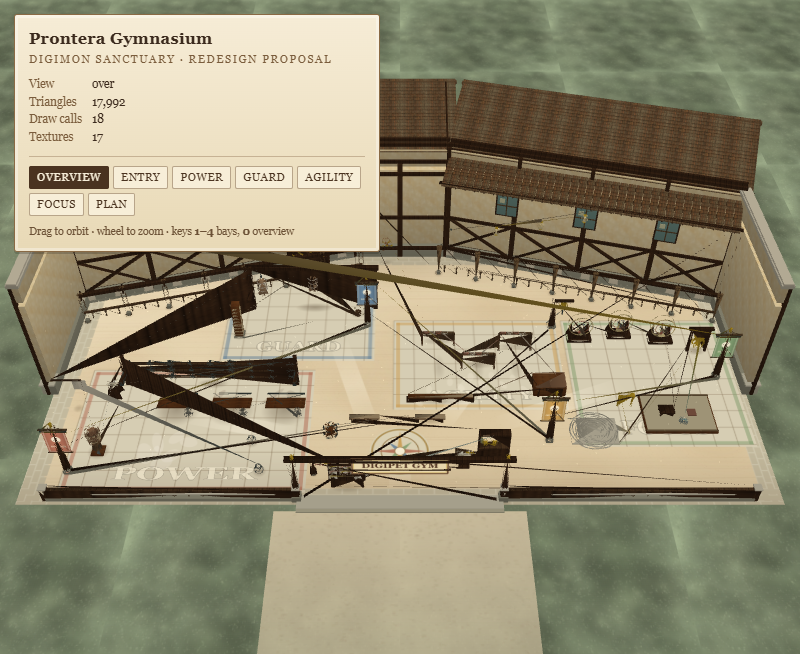
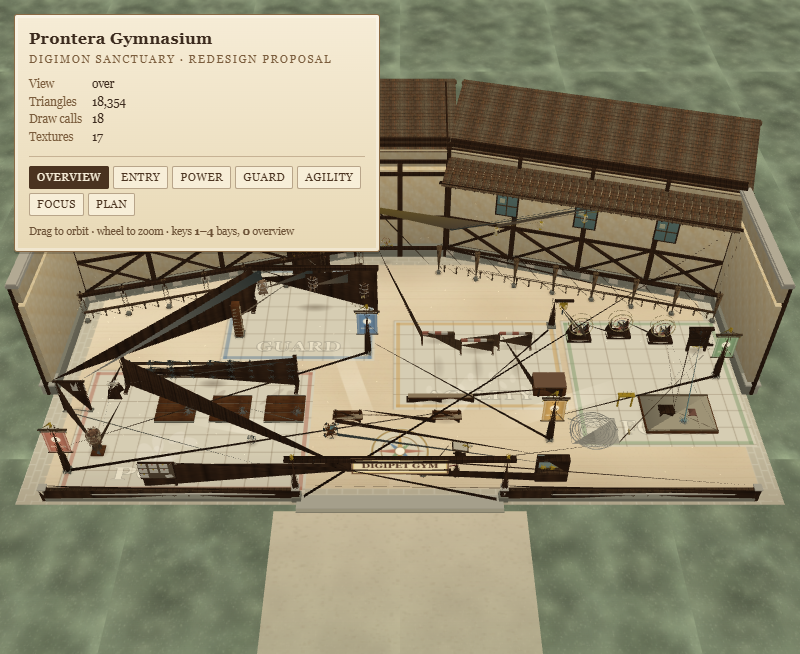
docs(proposal): gym redesign audit pass - clear station lines, hang props
Third geometry pass over the art study. Moves a hurdle and the guard
banner off the station rows, moves the sand bucket behind the gantry,
rebuilds the gantry knee braces and the plate-rack feet, hangs the
bronze bell from a crown rod with a slung striker log, and seats the
kettlebells and sand spill on the court plane.

Adds ?audit=1, which records every part's world AABB and source frame.
Result: 1,087 parts, nothing below the court, no loose prop outside the
envelope, every station clear, ridge heights 13.2 m, all remaining
"floating" sets carried by beamBetween hardware.

Refreshes the ten screenshots and updates the README budget to
18,354 triangles / 18 draw calls / 17 textures.

diff --git a/docs/proposals/gym-redesign/gym-redesign.js b/docs/proposals/gym-redesign/gym-redesign.js
@@ -97,6 +97,10 @@ function boxGeo(w,h,d,tile){
   return g;
 }
 const _m4=new T.Matrix4(),_q=new T.Quaternion(),_e=new T.Euler(),_v=new T.Vector3(),_s=new T.Vector3();
+/* ?audit=1 records every part's world bounding box so the geometry can be
+   checked for floating props, coplanar sheets and out-of-court volume. */
+const AUDIT=new URLSearchParams(location.search).get('audit')==='1';
+const PARTS=[];
 function put(geo,matName,colour,x,y,z,rot,scale){
   const g=tint(geo,colour);
   if(rot)_e.set(rot[0]||0,rot[1]||0,rot[2]||0,rot[3]||'XYZ');else _e.set(0,0,0);
@@ -104,6 +108,12 @@ function put(geo,matName,colour,x,y,z,rot,scale){
   if(typeof scale==='number')_s.set(scale,scale,scale);else if(scale)_s.set(scale[0],scale[1],scale[2]);else _s.set(1,1,1);
   _m4.compose(_v.set(x,y,z),_q,_s);
   g.applyMatrix4(_m4);
+  if(AUDIT){
+    g.computeBoundingBox();
+    const b=g.boundingBox;
+    const st=(new Error()).stack.split('\n').slice(2,4).map(s=>s.trim().replace(/^at /,'')).join(' <- ');
+    PARTS.push({m:matName,c:colour,min:[b.min.x,b.min.y,b.min.z],max:[b.max.x,b.max.y,b.max.z],at:st});
+  }
   let b=batches.get(matName);
   if(!b){b=[];batches.set(matName,b)}
   b.push(g);
@@ -522,18 +532,20 @@ function buildGate(){
 const IRON=0x3d4540,BRASS=0xc9a227,ROPE=0xb8a27a,CANVAS=0xe6dcc6,LEATHER=0x8a6547,STRAW=0xc9b071;
 
 function sleeperPlatform(x,z,w=2.9,d=2.6){
-  for(let i=0;i<3;i++)box(w,.10,.30,'board',0x9c7448,x,.05+i*.11,z-d/2+.35+i*.42);
-  box(w-.1,.06,.10,'flat',IRON,x,.34,z-d/2);
+  // stone plinth, then three board sleepers with reveals, all resting on it
+  box(w,.12,d,'flat',0x8d8974,x,.06,z);
+  for(let i=0;i<3;i++)box(w,.10,.72,'board',0x9c7448,x,.17,z-d/2+.46+i*.84);
+  box(w-.1,.06,.10,'flat',IRON,x,.13,z-d/2+.05);
   shadow(x,z,w*.62,d*.62,.34);
-  // a stone weight on the platform edge
-  lathe([[0,0],[.30,0],[.34,.16],[.26,.34],[.26,.46],[.12,.5],[0,.5]],10,'flat',0x7d7a6c,x+w*.34,.10,z+d*.22);
-  lathe([[0,0],[.20,0],[.22,.10],[.16,.20],[.16,.26],[0,.28]],8,'flat',0x6b6759,x+w*.34,.60,z+d*.22);
+  // a stone weight on the platform edge, resting on the boards
+  lathe([[0,0],[.30,0],[.34,.16],[.26,.34],[.26,.46],[.12,.5],[0,.5]],10,'flat',0x7d7a6c,x+w*.34,.22,z+d*.22);
+  lathe([[0,0],[.20,0],[.22,.10],[.16,.20],[.16,.26],[0,.28]],8,'flat',0x6b6759,x+w*.34,.72,z+d*.22);
 }
 function weightRack(x1,x2,z){
   for(const x of [x1,x2]){
     box(.30,3.0,.30,'wood',WALNUT,x,1.5,z);
-    box(.30,.24,1.5,'wood',WALNUT,x,1.5,z+.6);
-    box(.26,.26,1.5,'flat',IRON,x,1.35,z+.6);
+    box(.30,.16,1.3,'wood',WALNUT,x,.08,z+.45);       // floor foot
+    beamBetween([x,1.35,z],[x,.20,z+1.0],.06,'wood',WALNUT); // diagonal brace
   }
   for(const y of [.85,1.55,2.25]){
     box(x2-x1,.14,.16,'wood',OAK,(x1+x2)/2,y,z+.02);
@@ -557,31 +569,33 @@ function strikeDummy(x,z){
   // spring
   for(let i=0;i<4;i++)put(new T.TorusGeometry(.16,.035,4,10),'flat',IRON,x,.22+i*.10,z,[Math.PI/2,0,0]);
   cyl(.30,.34,.55,10,'wood',ASH,x,.70,z);
-  lathe([[0,0],[.44,0],[.52,.18],[.52,1.05],[.44,1.30],[.26,1.42],[0,1.42]],12,'flat',LEATHER,x,1.15,z);
+  lathe([[0,0],[.44,0],[.52,.18],[.52,1.05],[.44,1.30],[.26,1.42],[0,1.42]],12,'flat',LEATHER,x,.97,z);
   for(const y of [1.45,1.75,2.05])put(new T.TorusGeometry(.44,.045,4,12),'flat',ROPE,x,y,z,[Math.PI/2,0,0]);
   box(.62,.34,.50,'flat',0x6f4f37,x,2.02,z);
   shadow(x,z,.8,.8,.36);
 }
 function kettlebell(x,z,tilt){
-  put(new T.SphereGeometry(.34,12,8),'flat',0x6d7268,x,.30,z);
-  put(new T.TorusGeometry(.20,.05,5,10),'flat',IRON,x,.62,z,[tilt||0,0,.2]);
+  put(new T.SphereGeometry(.34,12,8),'flat',0x6d7268,x,.34,z);
+  put(new T.TorusGeometry(.20,.05,5,10),'flat',IRON,x,.66,z,[tilt||0,0,.2]);
   shadow(x,z,.5,.5,.28);
 }
 function sandbagGantry(x1,x2,z){
   for(const x of [x1,x2]){
     box(.34,4.35,.34,'wood',WALNUT,x,2.17,z);
-    box(.34,.26,1.7,'wood',WALNUT,x,2.17,z+.8);
-    beamBetween([x-.1,4.15,z],[x-.1,3.3,z+.95],.09,'wood',WALNUT);
+    box(.34,.16,1.5,'wood',WALNUT,x,.08,z);           // ground skid
+    // knee brace in the x-y plane, from the post up into the beam
+    const inward=x===x1?.62:-.62;
+    beamBetween([x+inward,3.28,z],[x,4.12,z],.09,'wood',WALNUT);
   }
   box(x2-x1+.6,.30,.34,'wood',WALNUT,(x1+x2)/2,4.30,z);
   shadow((x1+x2)/2,z,1.6,.55,.32);
   const bags=[[x1+.9,1.55],[(x1+x2)/2,1.95],[x2-.9,1.35]];
   for(const [x,base] of bags){
-    const y=4.20;
-    // chain + swivel
-    for(let i=0;i<5;i++)put(new T.TorusGeometry(.055,.016,3,6),'flat',IRON,x,y-.05-i*.13,z,[0,0,Math.PI/2]);
-    box(.14,.14,.14,'flat',IRON,x,y-.80,z);
-    const h=1.55,r=.40;
+    const beamY=4.20,h=1.55,r=.40,top=base+h;
+    // continuous chain from the beam down to the swivel, with links threaded on it
+    beamBetween([x,beamY,z],[x,top,z],.018,'flat',IRON);
+    for(let y=beamY-.08;y>top+.10;y-=.13)put(new T.TorusGeometry(.055,.016,3,6),'flat',IRON,x,y,z,[0,0,Math.PI/2]);
+    box(.14,.14,.14,'flat',IRON,x,top+.07,z);
     lathe([[0,0],[r,0],[r*.94,h*.16],[r*1.02,h*.5],[r*.9,h*.86],[r*.55,h],[0,h]],12,'flat',0x9b7a58,x,base,z);
     for(const yy of [base+.55,base+.95,base+1.35])put(new T.TorusGeometry(r*.99,.028,4,12),'flat',0xe0d3bd,x,yy,z,[Math.PI/2,0,0]);
     // patches
@@ -589,9 +603,9 @@ function sandbagGantry(x1,x2,z){
     if(base<1.5)box(.30,.30,.06,'flat',0xc9b071,x-.10,base+.12,z+.34,[0,0,.1]);
   }
   // sand spill + bucket under the patched bag
-  for(let i=0;i<9;i++){const a=i/9*Math.PI*2;put(new T.SphereGeometry(.10,5,4),'flat',0xcdb98c,x2-1.4+Math.cos(a)*.6,.03,z+.55+Math.sin(a)*.5)}
-  cyl(.26,.22,.42,10,'wood',OAK,x2-1.4,.21,z+.9);
-  shadow(x2-1.4,z+.7,.7,.6,.24);
+  for(let i=0;i<9;i++){const a=i/9*Math.PI*2;put(new T.SphereGeometry(.10,5,4),'flat',0xcdb98c,x2-1.4+Math.cos(a)*.6,.10,z-.55+Math.sin(a)*.5)}
+  cyl(.26,.22,.42,10,'wood',OAK,x2-1.4,.21,z-.9);
+  shadow(x2-1.4,z-.7,.7,.6,.24);
 }
 function guardPost(x,z){
   box(.8,.16,.8,'flat',0x8d8974,x,.08,z);
@@ -772,9 +786,15 @@ function barrel(x,z){
   put(new T.SphereGeometry(.09,8,6),'flat',0x8d9a92,x+.58,1.28,z+.06,[0,0,0]);
 }
 function bench(x,z,w){
+  // seat on four legs, with a slatted back against the fence
   box(w,.10,.42,'board',0x9c7448,x,.46,z);
-  box(w,.08,.44,'flat',0xb59b74,x,.50,z);
-  for(const dx of [-w/2+.22,w/2-.22]){box(.14,.46,.36,'wood',WALNUT,x+dx,.23,z)}
+  box(w,.06,.44,'flat',0xb59b74,x,.54,z);
+  for(const dx of [-w/2+.22,w/2-.22]){
+    box(.14,.46,.36,'wood',WALNUT,x+dx,.23,z);
+    box(.12,.62,.12,'wood',WALNUT,x+dx,.71,z-.18);
+  }
+  box(w-.1,.16,.06,'board',0x9c7448,x,.86,z-.18);
+  box(w-.1,.12,.06,'board',0x9c7448,x,.66,z-.18);
   shadow(x,z,w*.5,.35,.22);
 }
 function broom(x,z,tilt){
@@ -799,9 +819,14 @@ function buildBays(){
   weightRack(48.4,61.2,27.9);
   strikeDummy(47.6,34.4);
   kettlebell(58.4,33.6,.35);kettlebell(59.2,36.2,-.2);
-  box(2.2,.10,.10,'wood',WALNUT,45.0,3.1,30.4,[0,0,0]);
-  for(const dx of [0,.55])box(.42,.9,.05,'flat',0xd8cdb4,45.6+dx,2.62,30.4);
-  shadow(45.2,30.4,.4,.4,.2);
+  // towel stand: two turned uprights, a rail, and two towels over it
+  for(const x of [44.3,46.2]){
+    box(.34,.14,.34,'flat',0x8d8974,x,.07,30.6);
+    box(.14,3.24,.14,'wood',WALNUT,x,1.62,30.6);
+  }
+  box(2.3,.12,.12,'wood',WALNUT,45.25,3.18,30.6);
+  for(const dx of [0,.55])box(.42,.9,.05,'flat',0xd8cdb4,45.55+dx,2.67,30.62);
+  shadow(45.25,30.6,.7,.4,.22);
 
   /* GUARD - The Wall: sandbags, guard post, bucklers, wall tool rack. */
   sandbagGantry(57.0,67.0,19.4);
@@ -820,7 +845,7 @@ function buildBays(){
 
   /* AGILITY - The Run: staggered hurdles, vault, beam, bell. */
   hurdle(72.0,23.3,2.5,.90);
-  hurdle(75.0,25.9,2.5,1.20);
+  hurdle(75.0,24.4,2.5,1.20);
   hurdle(78.0,23.9,2.5,1.45);
   vaultBox(80.2,28.4);
   balanceBeam(69.6,74.4,29.7);
@@ -835,8 +860,11 @@ function buildBays(){
   // standing bronze bell
   for(const dx of [-.7,.7])box(.16,2.4,.16,'wood',WALNUT,92.2+dx,1.2,24.4);
   box(1.9,.18,.30,'wood',WALNUT,92.2,2.42,24.4);
+  // the bell hangs from a crown rod; a log striker is slung in front of it
+  box(.10,.92,.10,'flat',IRON,92.2,1.97,24.4);
   lathe([[0,.95],[.46,.98],[.52,.55],[.40,0],[.28,.02],[.28,.10],[0,.10]],14,'flat',BRASS,92.2,.55,24.4);
-  beamBetween([91.9,1.55,24.1],[92.9,2.05,24.7],.05,'wood',0x6f5236);
+  for(const x of [91.35,93.05])beamBetween([x,2.40,24.62],[x,1.36,25.06],.025,'flat',IRON);
+  cyl(.10,.10,1.9,8,'wood',0x6f5236,92.2,1.32,25.06,[0,0,Math.PI/2]);
   shadow(92.2,24.4,.8,.5,.3);
   // raked gravel bed
   box(3.4,.12,2.4,'flat',0xd6cdb3,83.0,.06,32.6);
@@ -847,15 +875,16 @@ function buildBays(){
   box(1.2,.10,.36,'flat',BRASS,85.6,1.28,30.2);
   for(const dx of [-.30,0,.30])cyl(.012,.012,.34,5,'flat',0x6b5a44,85.6+dx,1.50,30.2);
 
-  /* Entry: a short queue line to the side of the opening, desk, noticeboard,
-     trophy case, water barrel, benches. */
-  for(const x of [63.0,66.0])queuePost(x,36.4);
-  ropeSag([63.0,1.16,36.4],[66.0,1.16,36.4],.26);
-  lectern(73.4,35.6,0);
-  noticeBoard(65.4,37.5,0);
-  trophyCase(75.6,34.6);
+  /* Entry: a check-in desk with its queue guide on the right of the opening,
+     a notice board on the left fence wing and a trophy case inside the right
+     one, so the gate throat itself stays clear. */
+  lectern(73.2,35.0,0);
+  for(const x of [70.6,72.9])queuePost(x,36.5);
+  ropeSag([70.6,1.16,36.5],[72.9,1.16,36.5],.24);
+  noticeBoard(52.6,37.35,0);
+  trophyCase(79.4,36.8);
   barrel(64.0,32.9);
-  bench(66.4,31.6,2.2);bench(71.2,31.6,2.2);
+  bench(65.2,31.6,2.2);bench(72.4,31.6,2.2);
 }
 
 /* ---- 8. build everything ------------------------------------------------------------------- */
@@ -865,7 +894,7 @@ buildBays();
 
 /* Banner masts stand clear of the training lanes, one per bay. */
 banner(45.9,36.2,BAYS.power.label,BAYS.power.css);
-banner(66.4,21.4,BAYS.guard.label,BAYS.guard.css);
+banner(66.5,24.7,BAYS.guard.label,BAYS.guard.css);
 banner(79.7,33.4,BAYS.agility.label,BAYS.agility.css);
 banner(93.1,27.2,BAYS.focus.label,BAYS.focus.css);
 
@@ -1035,5 +1064,5 @@ function frame(now){
   requestAnimationFrame(frame);
 }
 requestAnimationFrame(frame);
-window.__gym={scene,camera,renderer,setView,snap,applyCamera,get stats(){return {triangles,calls:renderer.info.render.calls,textures:renderer.info.memory.textures,geometries:renderer.info.memory.geometries}}};
+window.__gym={scene,camera,renderer,setView,snap,applyCamera,parts:PARTS,get stats(){return {triangles,calls:renderer.info.render.calls,textures:renderer.info.memory.textures,geometries:renderer.info.memory.geometries}}};
 })();

diff --git a/docs/proposals/gym-redesign/README.md b/docs/proposals/gym-redesign/README.md
@@ -21,9 +21,10 @@ Sanctuary textures, and the real courtyard coordinates from
 in vertex colour - the same pipeline the plaza uses - so the frames show what
 the engine would actually draw, not a Blender render.
 
-Measured on this scene at 800x654: **~18,000 triangles, 16 draw calls,
-17 textures, no console errors.** That is cheaper than most single character
-sprites and comfortably inside the mobile budget the hub already holds.
+Measured on this scene at 800x654: **18,354 triangles, 18 draw calls,
+17 textures, 18 geometries, no console errors or warnings.** That is cheaper
+than most single character sprites and comfortably inside the mobile budget the
+hub already holds.
 
 ## Run it
 
@@ -136,9 +137,13 @@ threshold, and the four training rows stay clear from the court to the veranda.
 2. **Collision.** Add footprints for the rack, gantry, platforms, deck, butts
    and masts to the Sanctuary obstacle list; verify the gate and the four
    station rows stay reachable.
-3. **Life.** Hook the existing station markers to the live training animation
+3. **Clearance.** The wing roofs pitch up to a ridge behind the back wall, with
+   the rear eave at ~10.6 m. The six `behindGym` trees at `z = 10.2` are 6.8 m
+   tall, so they pass under the pitch without clipping, but they will read as a
+   covered grove behind the gym. Confirm that is wanted before porting.
+4. **Life.** Hook the existing station markers to the live training animation
    (v360 already has the on-map clock), then the NPC/coach lines.
-4. **Gates.** `tools/tests/digimon_sanctuary_sim.js` and
+5. **Gates.** `tools/tests/digimon_sanctuary_sim.js` and
    `tools/tests/social_gym_sim.js` should extend their scene checks to the new
    props before the change leaves draft.
 
@@ -147,11 +152,23 @@ threshold, and the four training rows stay clear from the court to the veranda.
 Automated checks run against the study:
 
 - zero console errors or warnings at every view, desktop and phone frame;
-- geometry audit: nothing sits below the court, no roof or prop outside the
-  courtyard envelope, ridge heights consistent at 13.1 m;
-- framing audit: all four courtyard corners and all four bay centres project
-  inside the frame at the overview and plan views;
-- budget: ~18k triangles, 16 draw calls, 17 textures.
+- geometry audit (`?audit=1`, 1,087 parts): nothing sits below the court plane;
+  no loose prop leaves the courtyard envelope - only the shell's own roof
+  overhangs and the gate threshold step project past the floor polygon - and
+  the three ridges agree at 13.2 m;
+- reachability audit: every station is clear at floor and body height. The
+  six remaining AABB hits are false positives - the three stone weights at the
+  corners of the lifting platforms, which are intended dressing, and the
+  diagonal veranda beam at the three guard stations (its bounding box reaches
+  the row; the real beam is 4.2 m away);
+- connectivity audit: every freestanding prop chain resolves to the ground.
+  The twelve components the AABB probe still reads as floating are all carried
+  by `beamBetween` hardware it cannot see: the two gate-sign chains, the chalk
+  stool, the bell-post bell and clapper, the three archery-butt legs, the
+  broom, the barrel ladle and the two lantern strings;
+- framing audit: all four courtyard corners and all four ridges project inside
+  the frame at the overview and plan views; each bay view centres its bay;
+- budget: 18.4k triangles (18,354), 18 draw calls, 17 textures.
 
 **Not** verified: the visual judgement itself. This pass was made without a
 human or vision-capable reviewer looking at the frames, so colour balance, prop
